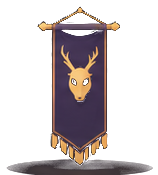
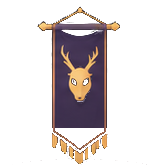
Playtest fixes: clean falling star, calmer backgrounds, double jump, timber blocks, woken dolls stand
- The falling seed is a clean star drawn in code (no translucent halo sprite)
- No horned warden looming on the horizon, no floating isles over the meadow; biomes cross-fade over
  90 tiles each side with a smooth S-curve
- The warden gate banner without its ground shadow; no text shadow on the compass
- Double jump from the start (the first warden's relic is a vessel instead)
- Placed timber becomes a solid Timber Block (drops timber again); natural trunks are unchanged
- Weapons shorten while mining so the chop stays at the block's face
- The training doll comes apart when the tutorial ends or is skipped; Skip button 15% smaller
- Woken dolls stand on the real ground with a fresh standing skeleton (no bent legs, no hovering)
- A lost vessel lifts out of its slot and fades as it rises
- Floating text in the UI's serif voice: quiet, slow, no pop; XP shows as a plain number
- Rift Trials sign centred under its prompt

Claude-Session: https://claude.ai/code/session_01XKnRKbjd3Wa5EXuRoQ6FVp

diff --git a/js/game/story.js b/js/game/story.js
@@ -42,7 +42,7 @@ const LORE = [
 // tutorial: one verb at a time, each confirmed before the next
 const TUT = [
   { id: 'move', title: 'Walk', keys: ['A', 'D'], touch: 'drag on the left side of the screen', text: 'Walk toward the light', done: s => Math.abs(s.game.player.x - s.tutX0) > 4 * TILE },
-  { id: 'jump', title: 'Jump', keys: ['Space'], touch: 'tap Jump', text: 'Jump. Tap twice for a higher hop later', done: s => s.jumped },
+  { id: 'jump', title: 'Jump', keys: ['Space'], touch: 'tap Jump', text: 'Jump. Tap again in the air to jump higher', done: s => s.jumped },
   { id: 'blade', title: 'Take the blade', keys: [], touch: 'walk into it', text: 'Walk into the blade in the stone', done: s => s.sv.hasBlade },
   { id: 'strike', title: 'Strike', keys: ['J', 'Click'], touch: 'tap Strike', text: 'Hit the training doll three times', done: s => s.dummyHits >= 3 },
   { id: 'dash', title: 'Dash', keys: ['Shift'], touch: 'tap Dash', text: 'Dash. You can dash in the air too', done: s => s.dashed },
@@ -314,7 +314,7 @@ export class Story {
     if (this.stage === 2 || this.stage === 3) { this.updateWake(dt); return; }
     if (this.bladeY === null) this.bladeY = g.world.surface(BLADE_X) * TILE;
     if (!this.sv.tutDone) this.updateTutorial(dt); else this.updateGoals(dt);
-    if (this.dummy) { const d = this.dummy; d.c.x = this.dummyX; d.c.vx = 0; d.intent.mx = 0; }
+    if (this.dummy && !this.dummy.removed) { const d = this.dummy; d.c.x = this.dummyX; d.c.vx = 0; d.intent.mx = 0; }
     // walking into the blade takes it
     if (!this.sv.hasBlade && Math.abs(p.x - (BLADE_X * TILE + 16)) < 34 && Math.abs(p.y - this.bladeY) < 70 && !g.cinematic) this.takeBlade();
     // biome discovery
@@ -407,7 +407,13 @@ export class Story {
     this.sv.tutDone = 1; this.sv.obj = 0;
     this.ui && this.ui.tutorial(null);
     if (!skipped) { this.card('Tutorial complete', 'now the world is yours', 'small gain', 2.6); Audio.play('chime'); }
-    if (this.dummy) { this.dummy.team = 'npc'; this.dummy.kind = 'dummy'; }
+    // the training doll has done its job: it comes apart in a puff of straw
+    if (this.dummy) {
+      const d = this.dummy;
+      g.fx.dust(d.c.x, d.c.y - 30, 14, '#e8dccb', -Math.PI / 2, 140);
+      g.fx.burst(d.c.x, d.c.y - 50, { n: 12, speed: 160, col: '#e8d2b0', col1: '#b8a07a', life: 0.7, size: 2.2, kind: 'chip' });
+      d.removed = true; this.dummy = null;
+    }
     g.saveNow();
   }
   // a repeat attempt: no cutscene, straight back in
@@ -577,8 +583,8 @@ export class Story {
         const pa = g.player.actor;
         ctx.save(); ctx.globalCompositeOperation = 'lighter';
         drawGlow(ctx, pa.c.x, pa.c.y - 40, 120, [1, 0.88, 0.7], 0.45);
-        ctx.translate(pa.c.x, pa.c.y - 40); ctx.rotate(g.time * 0.6);
-        drawSprite(ctx, 'props/seed', 0, 0, 190, { add: true, alpha: 0.55, anchorY: 0.5 });
+        ctx.translate(Math.round(pa.c.x), Math.round(pa.c.y - 40)); ctx.rotate(g.time * 0.6);
+        drawStar(ctx, 0, 0, 34, 0.9);
         ctx.restore();
       }
       this.thread.draw(ctx, a, 'front');
@@ -742,6 +748,13 @@ const BIOME_LINES = {
 export { BLADE_X, COSMETICS, drawSeed, sign };
 
 // the seed of light: a hot star with a long tail, flickering rays
+// a clean star: a long four-point cross over a short diagonal one, closed paths, a white core
+function drawStar(g, x, y, r, a = 1) {
+  const pt = (n, R, r0, rot) => { g.beginPath(); for (let i = 0; i < n * 2; i++) { const ang = rot + i * Math.PI / n, rr = i % 2 ? r0 : R; g.lineTo(x + Math.cos(ang) * rr, y + Math.sin(ang) * rr); } g.closePath(); };
+  g.fillStyle = `rgba(255,214,160,${0.55 * a})`; pt(4, r * 0.62, r * 0.1, Math.PI / 4); g.fill();
+  g.fillStyle = `rgba(255,236,206,${0.85 * a})`; pt(4, r, r * 0.12, 0); g.fill();
+  g.fillStyle = `rgba(255,255,255,${a})`; g.beginPath(); g.arc(x, y, r * 0.16, 0, TAU); g.fill();
+}
 function drawSeedOfLight(g, x, y, time, t) {
   g.save(); g.globalCompositeOperation = 'lighter';
   const pulse = 1 + Math.sin(time * 9) * 0.08;

diff --git a/css/style.css b/css/style.css
@@ -84,7 +84,7 @@ button { font-family: var(--sans); color: var(--text); }
 body.touch #btn-menu { width: 46px; height: 46px; }
 #souls-online { color: var(--accent); }
 #souls-online::before { content: ''; display: inline-block; width: 6px; height: 6px; border-radius: 50%; background: var(--accent); box-shadow: 0 0 8px var(--accent); margin-right: 8px; vertical-align: 1px; animation: breathe 1.8s infinite; }
-#compass { position: absolute; left: 50%; top: max(22px, env(safe-area-inset-top)); transform: translateX(-50%); font-size: 11px; letter-spacing: .35em; text-transform: uppercase; color: var(--dim); text-shadow: 0 1px 8px rgba(0,0,0,.7); white-space: nowrap; }
+#compass { position: absolute; left: 50%; top: max(22px, env(safe-area-inset-top)); transform: translateX(-50%); font-size: 11px; letter-spacing: .35em; text-transform: uppercase; color: var(--dim); white-space: nowrap; }
 #compass b { color: var(--text); font-weight: 600; }
 #hotbar { position: absolute; left: 50%; bottom: max(18px, env(safe-area-inset-bottom)); transform: translateX(-50%); display: flex; gap: 6px; pointer-events: auto; }
 .slot { width: 46px; height: 46px; border-radius: 10px; background: var(--glass); border: 1px solid var(--line); position: relative; display: flex; align-items: center; justify-content: center; backdrop-filter: blur(6px); -webkit-backdrop-filter: blur(6px); cursor: pointer; transition: transform .2s var(--ease), border-color .2s; }
@@ -262,7 +262,7 @@ body.touch #prompt { display: none !important; }
 .tt-keys kbd { font-size: 12px; padding: 4px 9px; border-radius: 9px; min-width: 34px; text-align: center; border-color: rgba(255,240,220,.45); box-shadow: 0 3px 0 rgba(0,0,0,.45); }
 .tt-or { font-size: 10px; color: var(--dim); letter-spacing: .1em; }
 .tt-touch { font: 700 11px Manrope; color: var(--accent); letter-spacing: .08em; text-transform: uppercase; max-width: 130px; text-align: right; }
-.tt-skip { position: absolute; top: -9px; right: 12px; background: rgba(12,11,18,.9); border: 1px solid var(--line); border-radius: 99px; font: 700 9px Manrope; letter-spacing: .16em; text-transform: uppercase; color: var(--dim); cursor: pointer; padding: 3px 9px; }
+.tt-skip { position: absolute; top: -8px; right: 12px; background: rgba(12,11,18,.9); border: 1px solid var(--line); border-radius: 99px; font: 700 7.6px Manrope; letter-spacing: .15em; text-transform: uppercase; color: var(--dim); cursor: pointer; padding: 2.5px 7.6px; }
 .tt-skip:hover { color: var(--text); }
 body.tutoring #compass { opacity: 0; }
 body.touch #tut { width: min(440px, 56vw); top: calc(max(8px, env(safe-area-inset-top)) + 2px); padding: 7px 12px 7px 8px; gap: 10px; }
@@ -655,3 +655,5 @@ body.modal #combo, body.modal #streak, body.bag-open #combo { opacity: 0; }
 #guidechip .gk.t { font: 700 10px Manrope; letter-spacing: .14em; text-transform: uppercase; color: #bff6ff; }
 body.modal #guidechip, body.bag-open #guidechip { opacity: 0; }
 @media (max-height: 500px) { #guidechip { bottom: 96px; } }
+
+.vessel.vfly { position: fixed; z-index: 70; pointer-events: none; margin: 0; }

diff --git a/js/game/fx.js b/js/game/fx.js
@@ -51,7 +51,7 @@ export class FX {
   }
   slash(pts, col, width = 1) { if (pts.length > 1) { const life = 0.17 + (width - 1) * 0.12; this.slashes.push({ pts: pts.map(p => [p[0], p[1], p[2], p[3]]), life, max: life, col, width }); } }
   flash(name, x, y, size, rot = 0, life = 0.22) { this.flashes.push({ name, x, y, size, rot, life, max: life }); }
-  text(x, y, str, col = '#ffffff', size = 18, life = 0.9) { this.texts.push({ x, y, str, col, size, life, max: life, vy: -60 }); }
+  text(x, y, str, col = '#ffffff', size = 18, life = 1.1) { this.texts.push({ x, y, str, col, size, life, max: life, vy: -34 }); }
   souls(x, y, n, target, col = '#bff6ff', onArrive) {
     for (let i = 0; i < n; i++) {
       const a = rand(0, TAU), sp = rand(120, 320);
@@ -112,7 +112,7 @@ export class FX {
     this.flashes = this.flashes.filter(f => f.life > 0);
     for (const s of this.slashes) s.life -= dt;
     this.slashes = this.slashes.filter(s => s.life > 0);
-    for (const t of this.texts) { t.life -= dt; t.y += t.vy * dt; t.vy *= Math.exp(-3 * dt); }
+    for (const t of this.texts) { t.life -= dt; t.y += t.vy * dt; t.vy *= Math.exp(-1.6 * dt); }
     this.texts = this.texts.filter(t => t.life > 0);
   }
 
@@ -183,12 +183,15 @@ export class FX {
     if (!additive) {
       ctx.textAlign = 'center';
       for (const t of this.texts) {
+        // quiet serif marks in the UI's voice: fade in, drift up slowly, fade out; no pop, no drop shadow
         const u = 1 - t.life / t.max;
-        ctx.globalAlpha = u > 0.6 ? 1 - (u - 0.6) / 0.4 : 1;
-        const sc = u < 0.12 ? 1 + (0.12 - u) * 5 : 1;
-        ctx.font = `800 ${t.size * sc}px Manrope, sans-serif`;
-        ctx.fillStyle = rgba('#000000', 0.35); ctx.fillText(t.str, t.x + 1.5, t.y + 2);
-        ctx.fillStyle = t.col; ctx.fillText(t.str, t.x, t.y);
+        ctx.globalAlpha = Math.min(1, u * 8) * (u > 0.55 ? 1 - (u - 0.55) / 0.45 : 1) * 0.92;
+        const sz = Math.round(Math.max(11, t.size * 0.9));
+        ctx.font = `italic 600 ${sz}px 'Cormorant Garamond', serif`;
+        if ('letterSpacing' in ctx) ctx.letterSpacing = '0.06em';
+        const x = Math.round(t.x), y = Math.round(t.y);
+        ctx.lineJoin = 'round'; ctx.lineWidth = 2.5; ctx.strokeStyle = 'rgba(12,10,16,0.45)'; ctx.strokeText(t.str, x, y);
+        ctx.fillStyle = mix(t.col, '#efe6d6', 0.35); ctx.fillText(t.str, x, y);
       }
     }
     ctx.restore();

diff --git a/js/art/doll.js b/js/art/doll.js
@@ -405,7 +405,7 @@ export function bladeGeom(b, look, a) {
   const ex = b.ipx(P.ELB_F, a), ey = b.ipy(P.ELB_F, a), hx = b.ipx(P.HAND_F, a), hy = b.ipy(P.HAND_F, a);
   // the wrist turns the weapon off the forearm line (mirrored with facing)
   const ang = Math.atan2(hy - ey, hx - ex) + (b.wrist || 0) * (b.facing || 1);
-  const L = (look.weaponLen || (look.blade ? look.blade.len : 30)) * s;
+  const L = (look.weaponLen || (look.blade ? look.blade.len : 30)) * s * (b.mining ? 0.55 : 1);   // a short chop when mining: the blade stays at the block's face
   return { x0: hx, y0: hy, x1: hx + Math.cos(ang) * L, y1: hy + Math.sin(ang) * L, ang };
 }
 // the weapon in hand, by kind; infused weapons glow with their element
@@ -420,7 +420,7 @@ export function drawBlade(g, b, look, a, o) {
 }
 function handDir(b, a, e, h) { const ex = b.ipx(e, a), ey = b.ipy(e, a), hx = b.ipx(h, a), hy = b.ipy(h, a); const ang = Math.atan2(hy - ey, hx - ex) + (h === P.HAND_F ? (b.wrist || 0) * (b.facing || 1) : 0); return { hx, hy, ang, ux: Math.cos(ang), uy: Math.sin(ang) }; }
 function drawSpear(g, b, look, a) {
-  const s = b.s, d = handDir(b, a, P.ELB_F, P.HAND_F), L = (look.weaponLen || 54) * s, B = 16 * s;
+  const s = b.s, d = handDir(b, a, P.ELB_F, P.HAND_F), L = (look.weaponLen || 54) * s * (b.mining ? 0.55 : 1), B = 16 * s;
   capsule(g, d.hx - d.ux * B, d.hy - d.uy * B, d.hx + d.ux * L * 0.86, d.hy + d.uy * L * 0.86, 1.3 * s, 1.3 * s, '#7a5a3e', { dark: 0.35 });
   const tx = d.hx + d.ux * L, ty = d.hy + d.uy * L, nx = -d.uy, ny = d.ux, bx = d.hx + d.ux * L * 0.8, by = d.hy + d.uy * L * 0.8;
   g.fillStyle = '#cfd6de';
@@ -429,7 +429,7 @@ function drawSpear(g, b, look, a) {
   g.fillStyle = '#c9a45c'; g.beginPath(); g.arc(bx, by, 1.8 * s, 0, TAU); g.fill();
 }
 function drawHammerW(g, b, look, a) {
-  const s = b.s, d = handDir(b, a, P.ELB_F, P.HAND_F), L = (look.weaponLen || 34) * s;
+  const s = b.s, d = handDir(b, a, P.ELB_F, P.HAND_F), L = (look.weaponLen || 34) * s * (b.mining ? 0.6 : 1);
   capsule(g, d.hx - d.ux * 6 * s, d.hy - d.uy * 6 * s, d.hx + d.ux * L, d.hy + d.uy * L, 1.6 * s, 1.6 * s, '#6e523b', { dark: 0.35 });
   g.save(); g.translate(d.hx + d.ux * L, d.hy + d.uy * L); g.rotate(d.ang + Math.PI / 2);
   const gr = g.createLinearGradient(-9 * s, 0, 9 * s, 0); gr.addColorStop(0, '#5a5560'); gr.addColorStop(0.5, '#8a8590'); gr.addColorStop(1, '#4a4650');

diff --git a/js/game/towns.js b/js/game/towns.js
@@ -302,13 +302,14 @@ export class Towns {
       ctx.fillText(this.name(tn.bi).toUpperCase().slice(0, 12), x, gy - 8 * TILE + 60);
     } else if (kind === 'yard') {
       // a straw target, a training doll and the rift gate's sign
-      ctx.fillStyle = '#5e4230'; ctx.fillRect(x - 30, gy - 40, 3, 40);
-      ballShade(ctx, x - 29, gy - 50, 13, '#d8c39a', { dark: 0.3 });
-      ctx.strokeStyle = '#b0453a'; ctx.lineWidth = 2.5; ctx.beginPath(); ctx.arc(x - 29, gy - 50, 8, 0, TAU); ctx.stroke(); ctx.beginPath(); ctx.arc(x - 29, gy - 50, 3, 0, TAU); ctx.stroke();
-      ctx.fillStyle = '#3a2c2a'; ctx.fillRect(x + 10, gy - 60, 3, 60);
-      ctx.fillStyle = '#2a1418'; ctx.beginPath(); ctx.roundRect(x - 6, gy - 82, 36, 24, 4); ctx.fill();
-      ctx.fillStyle = '#ff9a8a'; ctx.font = '700 8px Manrope, sans-serif'; ctx.textAlign = 'center'; ctx.fillText('RIFT', x + 12, gy - 72); ctx.fillText('TRIALS', x + 12, gy - 63);
-      ctx.globalCompositeOperation = 'lighter'; drawGlow(ctx, x + 12, gy - 70, 30, [1, 0.35, 0.3], 0.35 + Math.sin(t * 5) * 0.1);
+      // the sign sits right on the spot you use (so the prompt arrow is centred over it); the target beside it
+      ctx.fillStyle = '#5e4230'; ctx.fillRect(x - 46, gy - 40, 3, 40);
+      ballShade(ctx, x - 45, gy - 50, 13, '#d8c39a', { dark: 0.3 });
+      ctx.strokeStyle = '#b0453a'; ctx.lineWidth = 2.5; ctx.beginPath(); ctx.arc(x - 45, gy - 50, 8, 0, TAU); ctx.stroke(); ctx.beginPath(); ctx.arc(x - 45, gy - 50, 3, 0, TAU); ctx.stroke();
+      ctx.fillStyle = '#3a2c2a'; ctx.fillRect(x - 1.5, gy - 60, 3, 60);
+      ctx.fillStyle = '#2a1418'; ctx.beginPath(); ctx.roundRect(x - 18, gy - 82, 36, 24, 4); ctx.fill();
+      ctx.fillStyle = '#ff9a8a'; ctx.font = '700 8px Manrope, sans-serif'; ctx.textAlign = 'center'; ctx.fillText('RIFT', x, gy - 72); ctx.fillText('TRIALS', x, gy - 63);
+      ctx.globalCompositeOperation = 'lighter'; drawGlow(ctx, x, gy - 70, 30, [1, 0.35, 0.3], 0.35 + Math.sin(t * 5) * 0.1);
     }
     ctx.restore();
   }

diff --git a/js/world/render.js b/js/world/render.js
@@ -47,7 +47,7 @@ function texName(t, id) {
     case T.MARBLE: return 'build_plaster';
     case T.ROAD: return 'build_stone';
     case T.OBSIDIAN: return 'build_obsidian';
-    case T.LOG: return id + '_bark';
+    case T.LOG: case T.WOOD: return id + '_bark';
     case T.LEAVES: return id + '_foliage';
   }
   return null;
@@ -92,6 +92,7 @@ function matOf(t, p) {
     case T.RUIN: case T.GATE: return ['ruin', t === T.GATE ? '#4a4652' : '#a39d93'];
     case T.MARBLE: return ['marble', '#e9e4dc'];
     case T.ROAD: return ['ruin', '#8d857b'];
+    case T.WOOD: return ['plank', '#7a5a3e'];
     case T.ROOF: return ['brick', '#8a4a3c'];
     case T.TIMBER: return ['plank', '#5e4330'];
     case T.OBSIDIAN: return ['obsidian', '#2a2440'];
@@ -556,9 +557,10 @@ export function biomeBlendAt(x) {
   const tx = x / TILE;
   const bi = biomeIndexAt(tx), local = biomeLocal(tx);
   const A = biomeOf(bi);
-  const edge = 30;
-  if (local < edge) return { A: biomeOf(bi - 1), B: A, k: smooth(0.5 + local / edge / 2), bi };
-  if (local > BIOME_W - edge) return { A, B: biomeOf(bi + 1), k: smooth((local - (BIOME_W - edge)) / edge / 2), bi };
+  // a long, gentle crossfade (90 tiles each side of the border) with an S-curve that has no kinks
+  const edge = 90, ss = (u) => { u = Math.min(1, Math.max(0, u)); return u * u * u * (u * (u * 6 - 15) + 10); };
+  if (local < edge) return { A: biomeOf(bi - 1), B: A, k: ss(0.5 + local / edge / 2), bi };
+  if (local > BIOME_W - edge) return { A, B: biomeOf(bi + 1), k: ss((local - (BIOME_W - edge)) / edge / 2), bi };
   return { A, B: A, k: 0, bi };
 }
 

diff --git a/js/art/bg.js b/js/art/bg.js
@@ -220,23 +220,7 @@ export function drawSkyFeature(ctx, B, W, H, camX, camY, zoom, time, alpha) {
   ctx.globalAlpha = alpha;
   const par = (f) => -camX * f * zoom;
   switch (B.id) {
-    case 'meadow': {
-      // distant floating isles with threads of water
-      for (let i = 0; i < 3; i++) {
-        const x = ((par(0.02) + i * W * 0.45 + W * 0.15) % (W * 1.35) + W * 1.35) % (W * 1.35) - W * 0.15;
-        const y = H * (0.18 + i * 0.07) + Math.sin(time * 0.3 + i) * 6 - camY * 0.01 * zoom;
-        const s = H / 900 * (1.2 - i * 0.25);
-        const col = mix(B.sky[1], B.fog, 0.45);
-        ctx.fillStyle = col;
-        ctx.beginPath(); ctx.moveTo(x - 80 * s, y); ctx.quadraticCurveTo(x, y - 18 * s, x + 80 * s, y); ctx.quadraticCurveTo(x + 30 * s, y + 30 * s, x + 4 * s, y + 70 * s); ctx.quadraticCurveTo(x - 30 * s, y + 30 * s, x - 80 * s, y); ctx.fill();
-        ctx.fillStyle = mix(col, '#9cbd8c', 0.35);
-        for (const [dx, r] of [[-40, 16], [-18, 22], [10, 18], [36, 14]]) { ctx.beginPath(); ctx.arc(x + dx * s, y - 12 * s, r * s, 0, TAU); ctx.fill(); }
-        const fall = ctx.createLinearGradient(0, y, 0, y + 220 * s);
-        fall.addColorStop(0, rgba('#e8f4ff', 0.5)); fall.addColorStop(1, rgba('#e8f4ff', 0));
-        ctx.fillStyle = fall; ctx.fillRect(x + 22 * s, y + 6 * s, 3 * s, 220 * s);
-      }
-      break;
-    }
+    case 'meadow': break;   // open sky over the meadow (no floating isles)
     case 'glass': {
       ctx.globalCompositeOperation = 'lighter';
       for (let i = 0; i < 4; i++) {

diff --git a/js/game/bosses.js b/js/game/bosses.js
@@ -109,7 +109,8 @@ export class Bosses {
     if (g.net && g.net.visiting) { this.worldMap()['g' + k] = true; sv.coopRelics = (sv.coopRelics || 0) + 1; }
     else sv.bosses['g' + k] = true;
     if (g.net) g.net.bossDown(B);
-    const relic = n < 4 ? RELICS[n] : RELICS[4];
+    let relic = n < 4 ? RELICS[n] : RELICS[4];
+    if (relic.id === 'djump') relic = RELICS[4];   // the double jump is yours from the start: a vessel instead
     g.levels && g.levels.gain(400 + n * 250, g.player.actor.c.x, g.player.actor.c.y - 110, 'Warden');
     if (relic.id === 'vessel') { sv.maxHp++; g.player.hp = sv.maxHp; }
     else { sv.abil[relic.id] = true; if (relic.id === 'djump' || relic.id === 'wall') g.player.actor.abil[relic.id] = true; }
@@ -144,7 +145,7 @@ export class Bosses {
         const gy = g.world.surface(gi.gx) * TILE;
         const down = this.defeated(gi.k);
         ctx.save(); if (down) ctx.globalAlpha = 0.45;
-        for (const sd of [-1, 1]) if (!drawSprite(ctx, 'props/banner', gi.gxw + sd * (gi.half - 40), gy + 4, 170, { grade: g.biomeAt(gi.gxw) })) drawGateBanner(ctx, gi.gxw + sd * (gi.half - 40), gy + 1, 1, down ? '#6a6470' : spec.col, g.time + sd);
+        for (const sd of [-1, 1]) if (!drawSprite(ctx, 'props/banner', gi.gxw + sd * (gi.half - 40), gy - 6, 160, { grade: g.biomeAt(gi.gxw) })) drawGateBanner(ctx, gi.gxw + sd * (gi.half - 40), gy + 1, 1, down ? '#6a6470' : spec.col, g.time + sd);
         ctx.restore();
       }
     }

diff --git a/js/ui/ui.js b/js/ui/ui.js
@@ -774,7 +774,14 @@ export class UI {
       if (box.childElementCount !== sv.maxHp) { box.innerHTML = ''; for (let i = 0; i < sv.maxHp; i++) box.appendChild(el('div', 'vessel')); }
       [...box.children].forEach((v, i) => {
         const full = i < p.hp;
-        if (!full && v.classList.contains('full')) { v.classList.remove('lost'); void v.offsetWidth; v.classList.add('lost'); }
+        if (!full && v.classList.contains('full')) {
+          v.classList.remove('lost'); void v.offsetWidth; v.classList.add('lost');
+          // the gem itself lifts out of its slot and fades as it rises
+          const r = v.getBoundingClientRect(), fly = v.cloneNode(true);
+          fly.className = 'vessel full vfly'; Object.assign(fly.style, { left: r.left + 'px', top: r.top + 'px', width: r.width + 'px', height: r.height + 'px' });
+          document.body.appendChild(fly);
+          fly.animate([{ transform: 'translateY(0) scale(1)', opacity: 1, filter: 'brightness(1.6) drop-shadow(0 0 10px #9ff3ff)' }, { transform: 'translateY(-16px) scale(1.08)', opacity: 0.9, offset: 0.25 }, { transform: 'translateY(-58px) scale(0.55)', opacity: 0, filter: 'brightness(1) drop-shadow(0 0 2px #9ff3ff)' }], { duration: 650, easing: 'cubic-bezier(.2,.7,.3,1)', fill: 'forwards' }).onfinish = () => fly.remove();
+        }
         v.classList.toggle('full', full);
       });
       this.lastHp = p.hp; this.lastMax = sv.maxHp;

diff --git a/js/game/progress.js b/js/game/progress.js
@@ -104,7 +104,7 @@ export function newSave(seed) {
     v: 1, seed, born: false, name: genName(seed), sigil: seed ^ 0x5bd1e995,
     pos: null, respawn: null, hp: 5, maxHp: 5, breath: 0, glimmer: 0, level: 1, xp: 0, perks: [], perkPicks: 0, towns: {}, rift: { best: 0 },
     hasBlade: false, inv: {}, hotbar: [], sel: 0,
-    abil: { djump: false, wall: false, plunge: false, surge: false },
+    abil: { djump: true, wall: false, plunge: false, surge: false },
     lvl: { blade: 0, vessel: 0, breath: 0 },
     look: { color: 'c_bone', mat: 'm_cloth', head: 'h_none', cape: 'k_red', eyes: 'e_cyan', blade: 'b_steel' },
     unlocked: ['c_bone', 'm_cloth', 'h_none', 'h_leaf', 'k_none', 'k_red', 'k_scarf', 'e_cyan', 'e_amber', 'e_none', 'b_steel'],
@@ -148,6 +148,7 @@ export const Save = {
     for (const k in base.lvl) if (d.lvl[k] === undefined) d.lvl[k] = 0;
     for (const k in base.stats) if (d.stats[k] === undefined) d.stats[k] = 0;
     // the blade from the stone is a weapon you carry and wear
+    if (d.abil) d.abil.djump = true;   // everyone has the double jump from the start
     if (!d.level) { d.level = 1; d.xp = 0; } if (!d.perks) d.perks = []; if (d.perkPicks === undefined) d.perkPicks = 0;
     if (!d.towns) d.towns = {}; if (!d.rift) d.rift = { best: 0 };
     if (d.hasBlade && !(d.inv.w_blade > 0)) d.inv.w_blade = 1;

diff --git a/js/game/content.js b/js/game/content.js
@@ -96,7 +96,17 @@ export class Content {
         a.look_at = { x: p.x, y: p.y - 60 };
         // sit up, rise, stretch, then wave
         if (ph > 1.0 && ph < 2.1) a.scriptPose = { mode: 'getup', getup: clamp((ph - 1.0) / 1.1, 0, 1), strength: 1 };
-        if (ph >= 2.1 && a.mode === 'script') { a.mode = 'ctrl'; a.c.ground = true; a.doEmote('cheer', 0.9); }
+        if (ph >= 2.1 && a.mode === 'script') {
+          // stand on the real ground under the doll (not the height it lay at), then let it move normally
+          a.mode = 'ctrl'; a.scriptPose = null;
+          const gy = g.world.groundBelow(a.c.x, a.c.y - 70, 420);
+          if (gy !== null) a.c.y = gy;
+          a.c.vy = 0; a.c.vx = 0; a.c.ground = gy !== null; a.unstick && a.unstick();
+          // start from a clean standing skeleton (the lying pose's joint angles must not carry over)
+          if (a.anim && a.anim.cur) { a.anim.cur.fill(0); a.anim.rootY = null; a.anim.squash = a.anim.squashV = 0; }
+          a.body.reset(a.c.x, a.c.y - a.pelvisH);
+          a.doEmote('cheer', 0.9);
+        }
         if (ph > 3.1 && !d.waved) { d.waved = true; a.face(sign(p.x - a.c.x) || 1); a.doEmote('wave', 1.6); }
         if (d.t < 0) { d.state = 'leave'; d.t = 3; }
       } else if (d.state === 'leave') {

diff --git a/js/world/tiles.js b/js/world/tiles.js
@@ -11,6 +11,8 @@ export const T = {
   LADDER: 25, PLATFORM: 26, TORCH: 27, DOOR: 28, DOOR_OPEN: 29, STEP: 30, STORE: 31, BENCH: 32, FORGE: 33, LOOM: 34,
   // towns
   ROAD: 35, ROOF: 36, TIMBER: 37,
+  // placed timber: a solid block of wood (natural trunks stay LOG under the tree sprites)
+  WOOD: 38,
 };
 
 // k: key colour role resolved per biome ('dirt','stone','deep','grass','leaf') or a fixed hex
@@ -53,6 +55,7 @@ TILES[T.STORE] = D({ name: 'Storage Chest', k: '#8a6440', solid: false, opaque: 
 TILES[T.BENCH] = D({ name: 'Workbench', k: '#9b7653', solid: false, opaque: false, hard: 0.5, natural: false, station: 'bench' });
 TILES[T.FORGE] = D({ name: 'Forge', k: '#6e6670', solid: false, opaque: false, hard: 0.8, natural: false, station: 'forge', light: [1.0, 0.5, 0.22] });
 TILES[T.LOOM] = D({ name: 'Loom', k: '#b08a62', solid: false, opaque: false, hard: 0.5, natural: false, station: 'loom' });
+TILES[T.WOOD] = D({ name: 'Timber Block', k: '#7a5a3e', hard: 0.5, natural: false, drop: T.LOG });
 TILES[T.ROAD] = D({ name: 'Cobbles', k: '#8d857b', hard: 1.0, natural: false });
 TILES[T.ROOF] = D({ name: 'Roof Tiles', k: '#8a4a3c', hard: 0.7, natural: false });
 TILES[T.TIMBER] = D({ name: 'Timber Beam', k: '#5e4330', hard: 0.8, natural: false });
